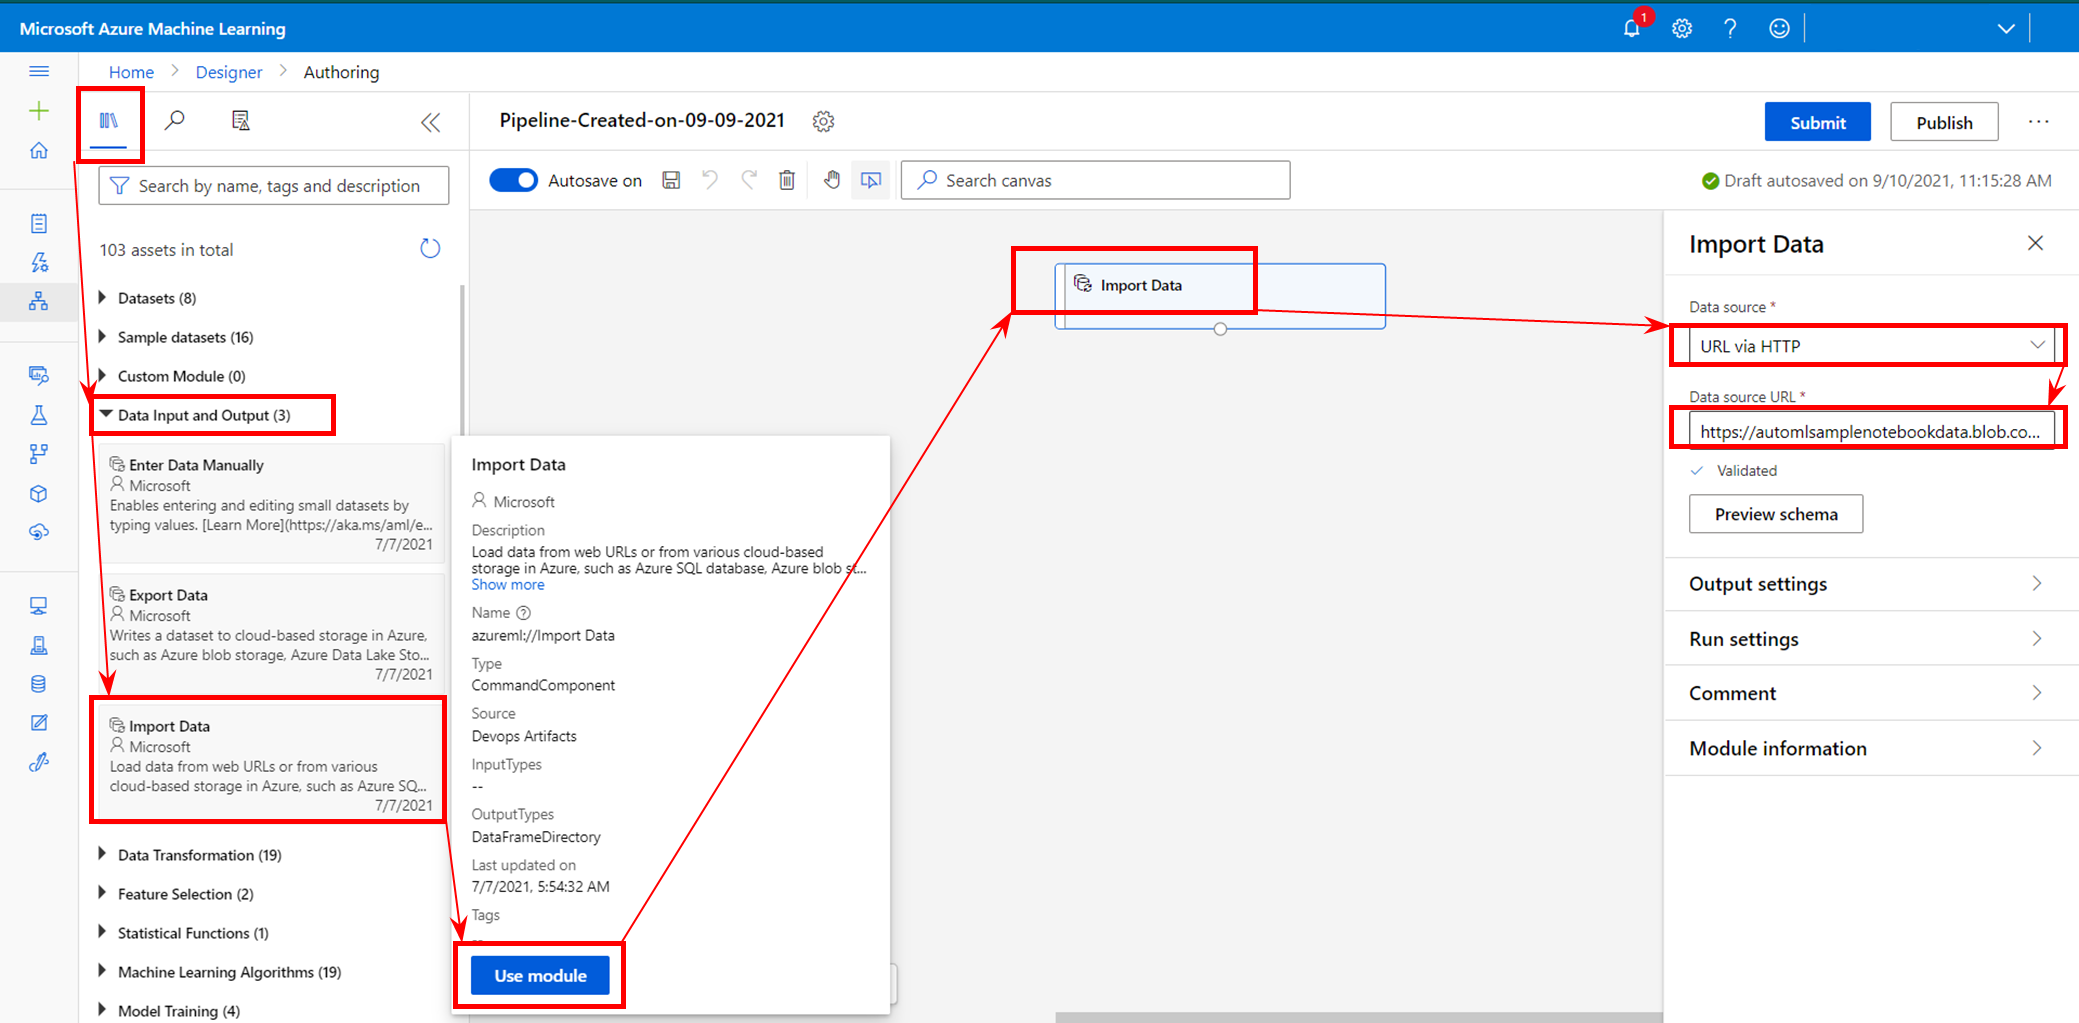
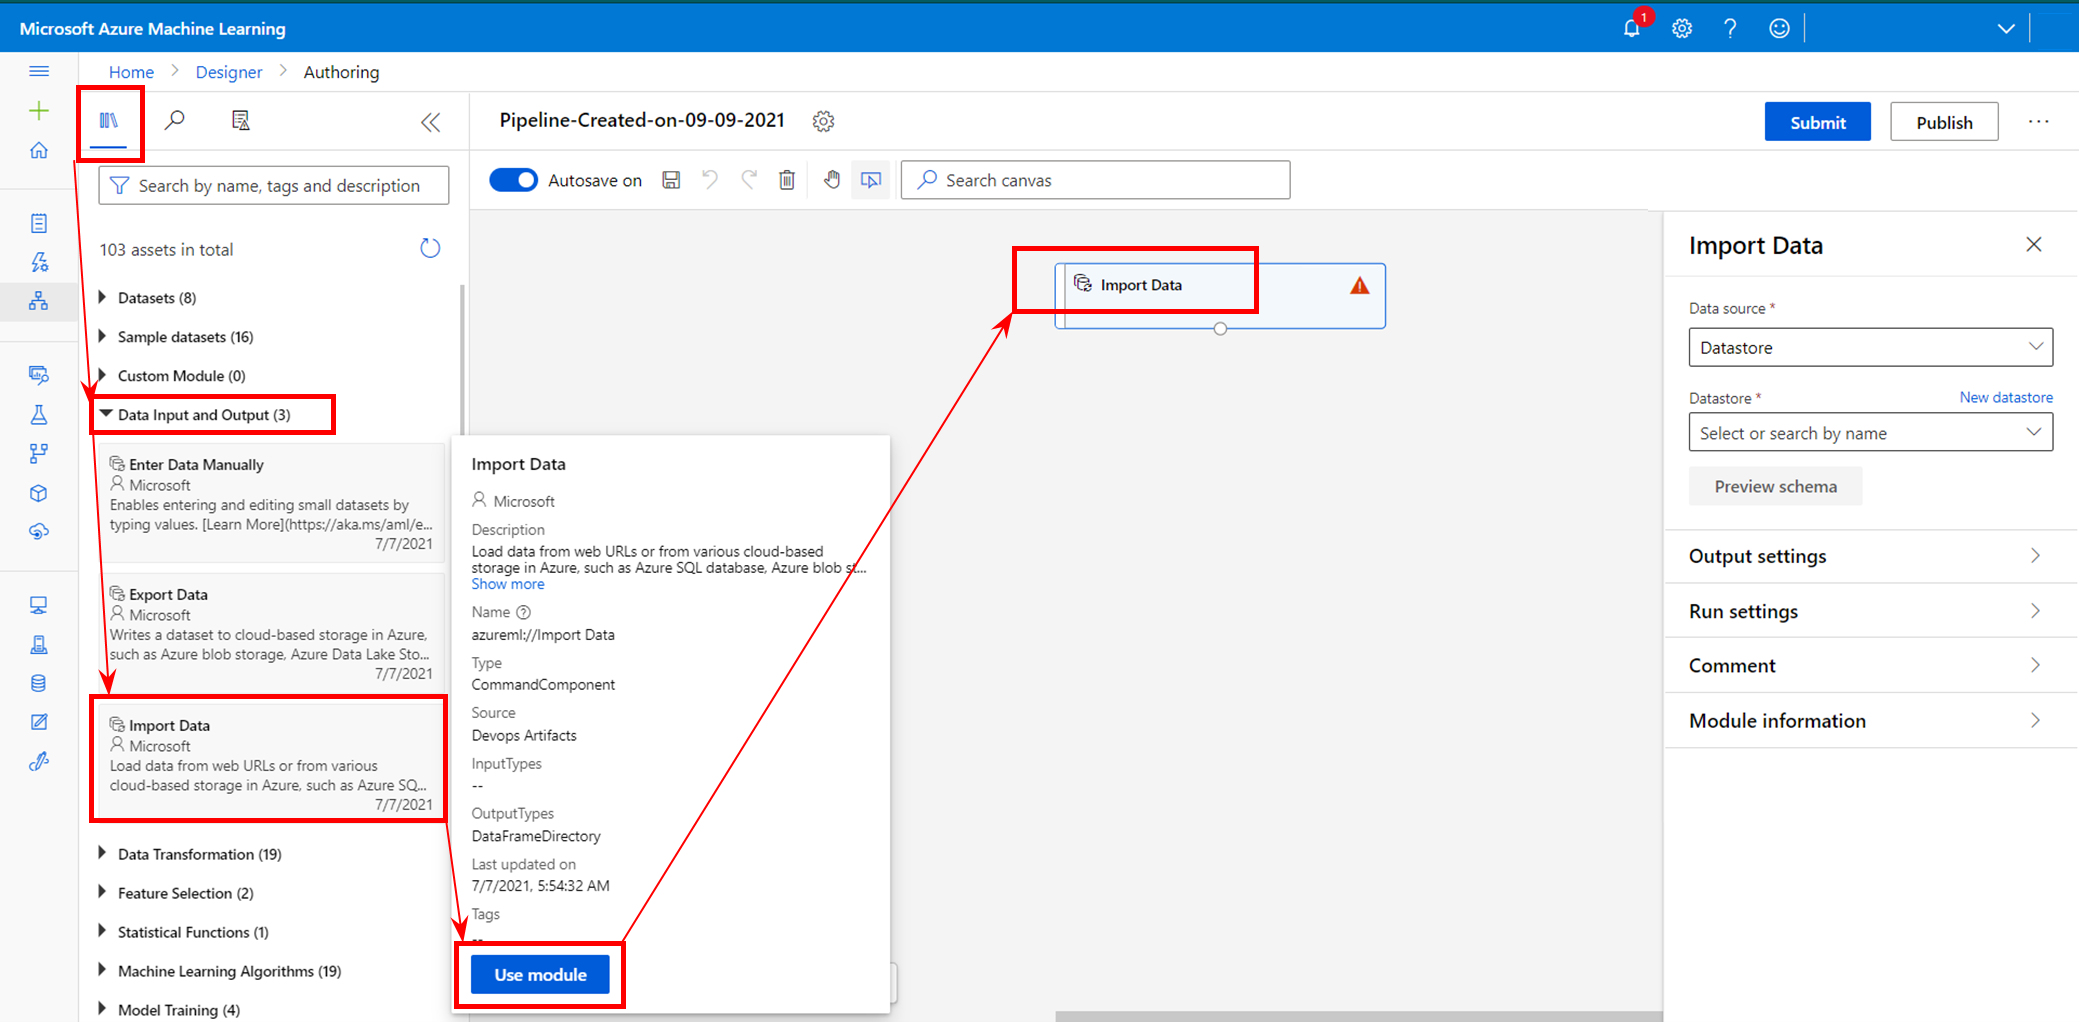
Update Hands-on-lab02.md

diff --git a/day-02/Hands-on-lab02.md b/day-02/Hands-on-lab02.md
@@ -35,18 +35,29 @@ Once created you can click on save to use the new compute target.
 
 ### Task 2 - Import and prepare the data
 
-After creating the pipeline draft using the designer, you’ll need some data to train the model. For this lab you will use the credit card dataset via a web URL. Using this dataset you will train a model for fraud detection based on best correlated features.
+After creating the pipeline draft using the Designer, you’ll need some data to train the model. For this lab you will use the credit card dataset via a web URL. Using this dataset you will train a model for fraud detection based on best correlated features.
 Using the web URL, you will load data from a csv file containing both training features and labels.
 
 Start by importing and preparing the dataset for the training following the steps underneath:
 
-* Go to the Designer asset library
+* Go to the Designer's asset library
 * Choose **Data Input and Output**
 * Hover on **Import Data** and click on **Use module**
-* On the module Settings menu select **URL via HTTP** data source
-* Copy the following link `https://automlsamplenotebookdata.blob.core.windows.net/automl-sample-notebook-data/creditcard.csv` and past it to the **Data source URL** box
 
 ![Import data](media/Lab02-import-data.png)
+
+* On the module Settings menu select **Datastore** for data source
+* click on **New datastore**
+* On the prompt window enter `sample_datastore` for **Datastore name**
+* Select **enter manually**
+* Copy the following link `https://automlsamplenotebookdata.blob.core.windows.net/automl-sample-notebook-data/` and past it to the **URL** box
+* select `No` for **Save credentials with the datastore for data access**
+
+![create new datastore](media/Lab02-new-datastore.png)
+
+* Enter `creditcard.csv` in the Path field and make sure Validated is *checked*
+
+![Validated Import data](media/Lab02-validated-data-import.png)
 
 * From the Designer library choose **Data transformation** 
 * Grab and drop **Clean Missing Data** module to the draft, connect the **Import Data** module to this one
@@ -134,15 +145,47 @@ After creating the pipeline draft using the AML Designer, here you are going to 
 
 ### Task 1 - Set pipeline parameters
 
+Pipeline parameters are used to build versatile pipelines which can be resubmitted later with varying parameter values. Here in this exercise, you are going to set these parameters:
+
+* **Data source** or the training data path, to retrain the model on different datasets
+  * Select **Import Data** module and under **Parameters** tab, mouseover the Path field TO select the *More button*, then click on **Add to pipeline parameter** and save
+
+  ![Add data path to pipeline parameter](media/Lab02-DP-to-PP.png)
+
+* **Fraction of rows** in the training dataset
+  * Select **Split Data** module and add **Fraction of rows in the first output** to pipeline parameters, then save
+
+  ![Add fraction of rows to pipeline parameter](media/Lab02-splitData-PP.png)
+
+* **Number of desired features** to select for training
+  * Select **Filter Based Feature Selection**, add **Number of desired features** to pipeline parameters and save
+
+  ![Number of selected features to pipeline parameter](media/Lab02-feature-selection-PP.png)
+
+* **Number of decision trees** of the **Decision Forest** training algorithm
+  * Select **Two-class Decision Forest**, add **Number of decision trees** to pipeline parameters and save
+
+  ![Number of decision trees to pipeline parameter](media/Lab02-Num-DT-PP.png)
+
 ### Task 2 - Create a REST endpoint to publish the ML pipeline
 
+After setting the pipeline parameters, now you are ready to **publish** the pipeline
+* Click on the **Publish** button right on top  
+* Select **Create new** to create a new **PipelineEndpoint**
+* Enter `Two-class pipeline` to name the **PipelineEndpoint**
+* Click Publish
+
+![Publish pipeline to a REST Endpoint](media/Lab02-publish-pipeline.png)
 
 ## Exercise 3 - Test ML pipeline Rest endpoint
 
+Publishing the pipeline enables a REST endpoint to rerun the pipeline from any HTTP library on any platform. Here you are going to test the Machine Learning pipeline Endpoint that you created.
+
 ### task1 - Submit a pipeline run using the REST endpoint
 
+After publish is succeeded go to the pipeline endpoint by clicking on `Two-class pipeline`
 
-## Exercise 4 - Version endpoints
+![Publish pipeline to a REST Endpoint](media/Lab02-go-to-pipeline-endpoint.png)
 
 
 
